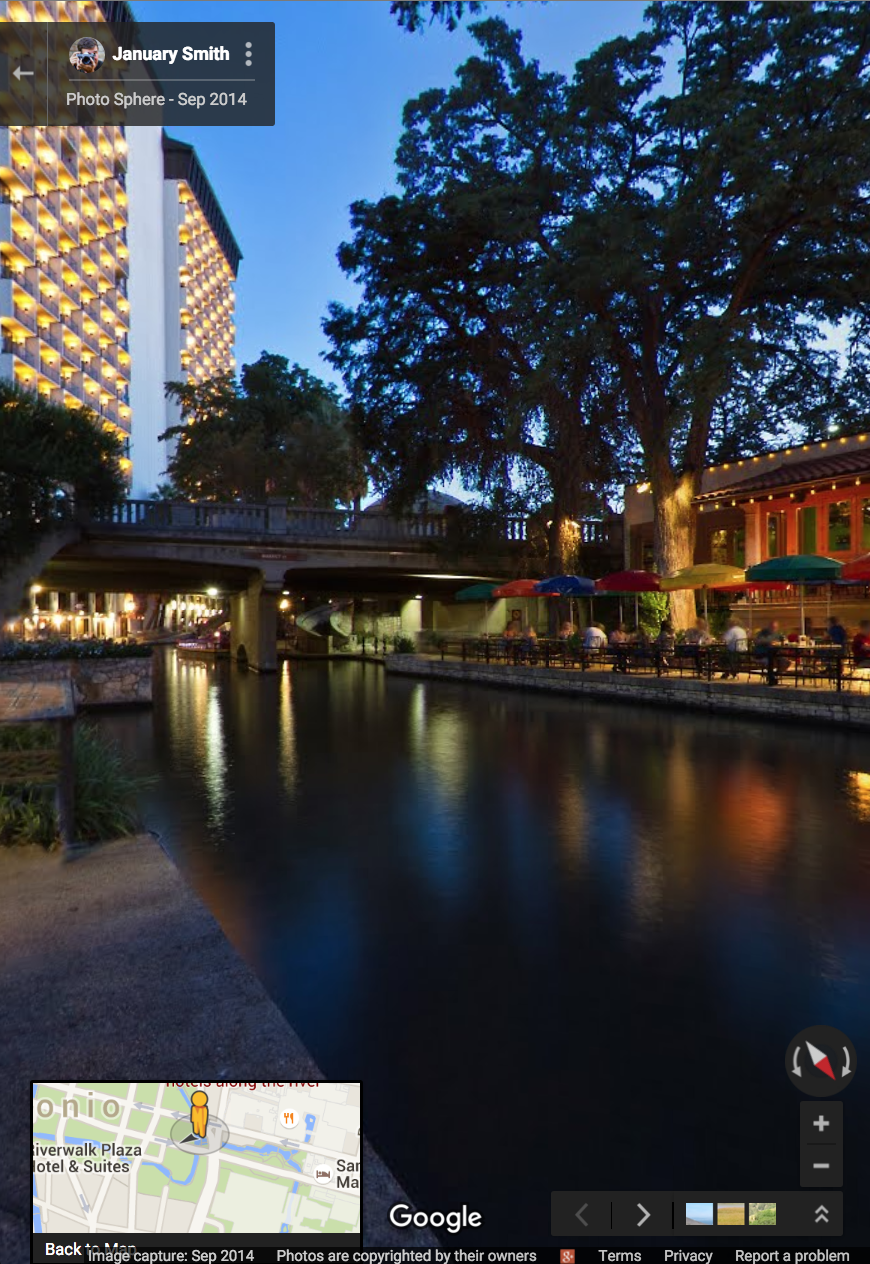
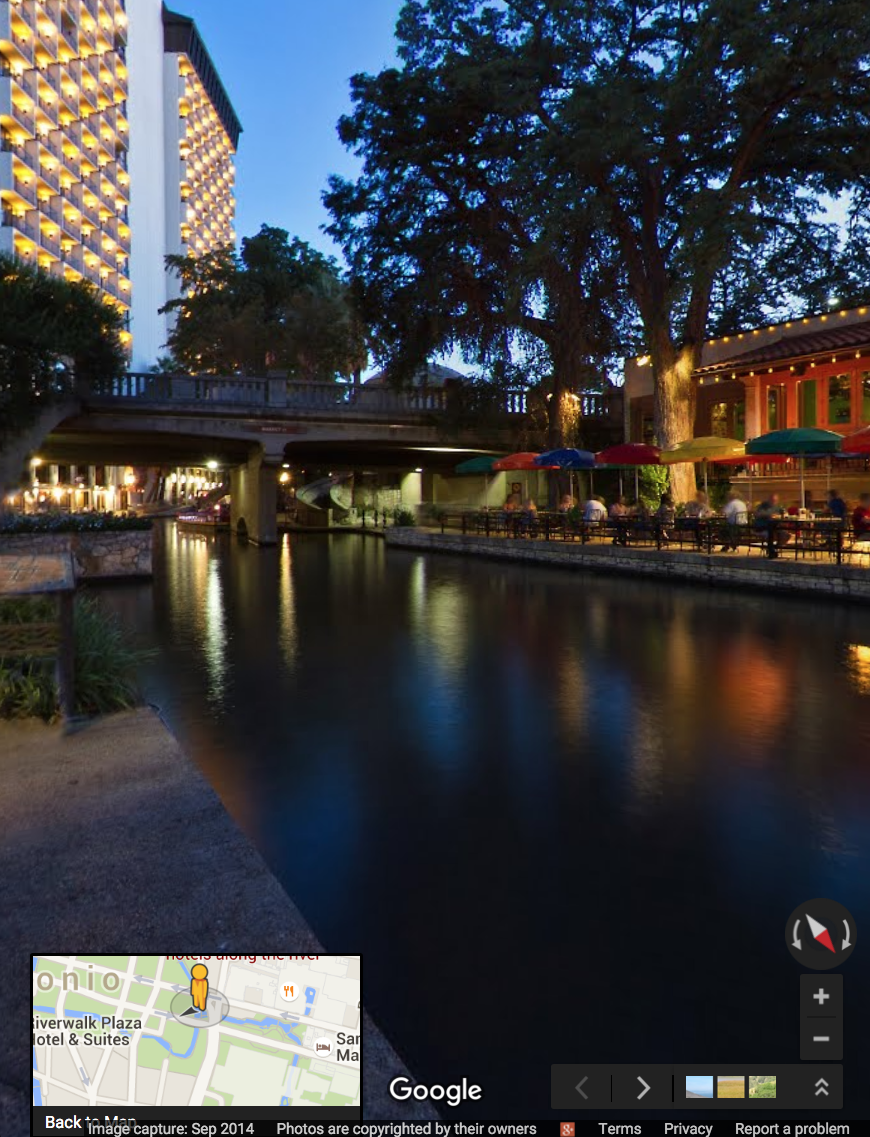
Add about page

diff --git a/about/about.html b/about/about.html
@@ -1,0 +1,150 @@
+<html>
+<head>
+    <meta name="keywords" content="Google Trusted Photographer, Street View, Virtual Tour, San Antonio, Texas">
+    <meta name="description" content="This is the personal website of Google Street View Trusted Photographer January Smith.">
+    <title>January Smith - Google Street View Trusted Photographer - About</title>
+    <link rel="icon" href="../images/home/favicon.ico">
+    <meta name="viewport" content="width=device-width, initial-scale=1">
+    <meta charset="utf-8">
+    <!-- Bootstrap -->
+    <link href="../styles/bootstrap.min.css" rel="stylesheet">
+    <script>
+      (function(i,s,o,g,r,a,m){i['GoogleAnalyticsObject']=r;i[r]=i[r]||function(){
+                                                  (i[r].q=i[r].q||[]).push(arguments)},i[r].l=1*new Date();a=s.createElement(o),
+                                                  m=s.getElementsByTagName(o)[0];a.async=1;a.src=g;m.parentNode.insertBefore(a,m)
+                                                  })(window,document,'script','//www.google-analytics.com/analytics.js','ga');
+                                            
+                                                  ga('create', 'UA-48280446-1', 'auto');
+                                                  ga('send', 'pageview');
+    </script>
+</head>
+<body>
+<nav class="navbar navbar-default navbar-fixed-top">
+  <div class="container-fluid">
+    <!-- Brand and toggle get grouped for better mobile display -->
+    <div class="navbar-header">
+      <button type="button" class="navbar-toggle collapsed" data-toggle="collapse" data-target="#jhsNavbar" aria-expanded="false">
+        <span class="sr-only">Toggle navigation</span>
+        <span class="icon-bar"></span>
+        <span class="icon-bar"></span>
+        <span class="icon-bar"></span>
+      </button>
+      <a class="navbar-brand" href="..\index.html">January Smith</a>
+    </div>
+
+    <!-- Collect the nav links, forms, and other content for toggling -->
+    <div class="collapse navbar-collapse" id="jhsNavbar">
+      <ul class="nav navbar-nav navbar-right">
+        <li><a href="#">About</a></li>
+      </ul>
+    </div><!-- /.navbar-collapse -->
+  </div><!-- /.container-fluid -->
+</nav>
+
+<div class="section">
+    <div class="container">
+
+        <div class="row">
+            <br>
+            <br>
+            <br>
+            <div class="col-md-4">
+                <img src="../images/about/me.jpg" class="center-block img-responsive img-rounded">
+                
+            </div>
+            <div class="col-md-4">
+                <h3 class="text-primary">January Smith</h3>
+                <h5 class="text-primary">11942 Mission Trace
+                    <br>San Antonio, Tx 78230</h5>
+                <p class="text-primary">
+                    <i class="fa fa-fw fa-lg fa-phone"></i>(210) 870-6991</p>
+                <p class="text-primary">
+                    <i class="fa fa-envelope fa-fw fa-lg"></i>
+                    <a href="mailto:january@januarysmith.com">january@januarysmith.com</a>
+                </p>
+                <a href="https://plus.google.com/+januarysmith"><img src="../images/about/GooglePlus.png" height="25" width="25">Google+</a> 
+                <br>  
+                <a href="https://www.linkedin.com/profile/view?id=AAkAAAGVHm8Bd9oNt32i5kOrc9uzhzpPhSpXJjY"><img src="../images/about/LinkedIn.png" height="25" width="25">LinkedIn</a> 
+                <br>
+                <a href="https://www.google.com/maps/streetview/trusted/"><img src="../images/about/TrustedProBadge_English_Landscape_P.png" height="100" width="200"></a>
+                <br>
+            </div>
+            <div class="col-md-4">
+                <p class="text-primary">I am a panoramic photographer and developer based in my home town of San Antonio, Texas.</p>
+                <p class="text-primary">I have been shooting high quality panoramic images around the world for over two years now as a Google Trusted Photographer. I enjoy the challenge of composing an image in a full 360 degrees and the interactive
+                    results that can be experienced online.</p>
+                <p class="text-primary">With numerous photo shoots under my belt and over 30 years experience
+                    in software and web development I am ready to put your business on the
+                    map - Google Maps...</p>
+                <p class="text-primary">Give me a call, send me an email, or use the contact form below to schedule
+                    your photo shoot.</p>
+            </div>
+        </div>
+    </div>
+</div>
+
+<div class="row" id="contact">
+    <br>
+    <br>
+    <br>
+    <br>
+    <div class="col-md-3"></div>
+    <div class="col-md-6">
+        <div class="panel panel-primary">
+            <div class="panel-heading">
+                <h2 class="text-center">Contact</h2>
+            </div>
+            <div class="panel-body">
+                <form class="form-horizontal" role="form" action="//formspree.io/INFO@januarysmith.com" method="POST">
+                    <input type="text" name="_gotcha" style="display:none">
+                    <input type="hidden" name="_next" value="//januarysmith.com">
+                    <div class="form-group">
+                        <div class="col-sm-2">
+                            <label for="inputName" class="control-label">Name</label>
+                        </div>
+                        <div class="col-sm-10">
+                            <input type="text" class="form-control" id="inputName" placeholder="Name" name="name">
+                        </div>
+                    </div>
+                    <div class="form-group">
+                        <div class="col-sm-2">
+                            <label for="inputPhone" class="control-label">Phone</label>
+                        </div>
+                        <div class="col-sm-10">
+                            <input type="text" class="form-control" id="inputPhone" placeholder="Phone" name="_subject">
+                        </div>
+                    </div>
+                    <div class="form-group">
+                        <div class="col-sm-2">
+                            <label for="inputEmail" class="control-label">Email</label>
+                        </div>
+                        <div class="col-sm-10">
+                            <input type="email" class="form-control" id="inputEmail" placeholder="Email" name="_replyto">
+                        </div>
+                    </div>
+                    <div class="form-group">
+                        <div class="col-sm-2">
+                            <label for="inputMessage" class="control-label">Message</label>
+                        </div>
+                        <div class="col-sm-10">
+                            <input type="text" class="form-control" id="inputMessage" placeholder="I am interested in a Google virtual tour." name="message">
+                        </div>
+                    </div>
+                    <div class="form-group">
+                        <div class="col-sm-offset-2 col-sm-10">
+                            <button type="submit" class="btn btn-primary">Send</button>
+                        </div>
+                    </div>
+                </form>
+            </div>
+        </div>
+    </div>
+    <div class="col-md-3"></div>
+</div>
+
+<!-- jQuery (necessary for Bootstrap's JavaScript plugins) -->
+<script src="https://ajax.googleapis.com/ajax/libs/jquery/1.11.3/jquery.min.js"></script>
+<!-- Include all compiled plugins (below), or include individual files as needed -->
+<script src="../scripts/bootstrap.min.js"></script>
+</body>
+</html>

diff --git a/index.html b/index.html
@@ -155,54 +155,37 @@
 </head>
 <body>
 
+<nav class="navbar navbar-default navbar-fixed-top">
+  <div class="container-fluid">
+    <!-- Brand and toggle get grouped for better mobile display -->
+    <div class="navbar-header">
+      <button type="button" class="navbar-toggle collapsed" data-toggle="collapse" data-target="#jhsNavbar" aria-expanded="false">
+        <span class="sr-only">Toggle navigation</span>
+        <span class="icon-bar"></span>
+        <span class="icon-bar"></span>
+        <span class="icon-bar"></span>
+      </button>
+      <a class="navbar-brand" href="#">January Smith</a>
+    </div>
+
+    <!-- Collect the nav links, forms, and other content for toggling -->
+    <div class="collapse navbar-collapse" id="jhsNavbar">
+      <ul class="nav navbar-nav navbar-right">
+        <li><a href="about\about.html">About</a></li>
+      </ul>
+    </div><!-- /.navbar-collapse -->
+  </div><!-- /.container-fluid -->
+</nav>
+
+
 <!--This is the pano viewer displayed when viewed on a tablet, notebook, or desktop-->
 <div class="container-fluid, hidden-xs">
   <div style="width: 100%; height: 100%" id="panoDIV"></div>
 </div>
 
-<!--This is a carousel displayed when viewed on a phone-->
+<!--This is an image displayed when viewed on a phone-->
 <div class="container-fluid, visible-xs">
-  <div id="panoCarousel" class="carousel slide carousel-fade" data-ride="carousel" data-interval="6000">
-    <!-- Indicators -->
-    <ol class="carousel-indicators">
-      <li data-target="#panoCarousel" data-slide-to="0" class="active"></li>
-      <li data-target="#panoCarousel" data-slide-to="1"></li>
-      <li data-target="#panoCarousel" data-slide-to="2"></li>
-      <li data-target="#panoCarousel" data-slide-to="3"></li>
-   </ol>
-
-    <!-- Wrapper for slides -->
-    <div class="carousel-inner" role="listbox">
-      <div class="item active">
-        <img src="images/home/winters1.png" alt="..." style="width: 100%; height: 100%" >
-      </div>
-      <div class="item">
-        <img src="images/home/winters2.png" alt="..." style="width: 100%; height: 100%" >
-      </div>
-      <div class="item">
-        <img src="images/home/winters3.png" alt="..." style="width: 100%; height: 100%" >
-      </div>
-      <div class="item">
-        <img src="images/home/winters4.png" alt="..." style="width: 100%; height: 100%" >
-      </div>
-         <div class="item">
-        <img src="images/home/winters5.png" alt="..." style="width: 100%; height: 100%" >
-      </div>
-            <div class="item">
-        <img src="images/home/winters6.png" alt="..." style="width: 100%; height: 100%" >
-      </div>
-    </div>
-
-    <!-- Controls -->
-    <a class="left carousel-control" href="#carousel-example-generic" role="button" data-slide="prev">
-      <span class="glyphicon glyphicon-chevron-left" aria-hidden="true"></span>
-      <span class="sr-only">Previous</span>
-    </a>
-    <a class="right carousel-control" href="#carousel-example-generic" role="button" data-slide="next">
-      <span class="glyphicon glyphicon-chevron-right" aria-hidden="true"></span>
-      <span class="sr-only">Next</span>
-    </a>
-  </div>
+  <img src="images/home/riverwalk.png" alt="..." style="width: 100%; height: 100%" >
 </div>
 
 <!-- jQuery (necessary for Bootstrap's JavaScript plugins) -->
